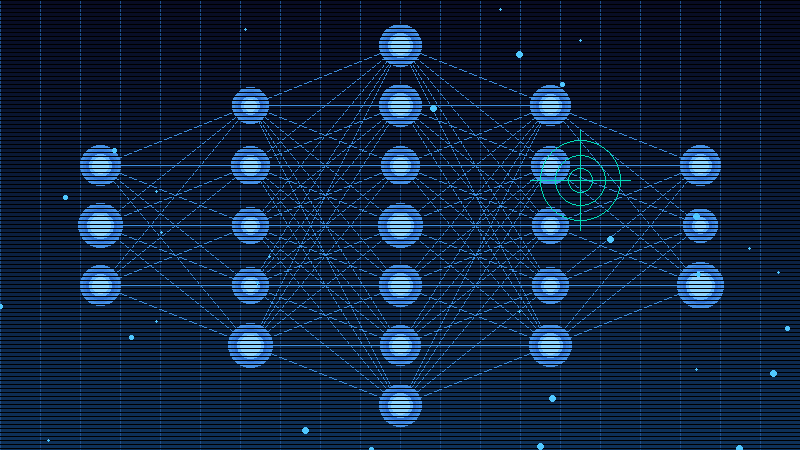
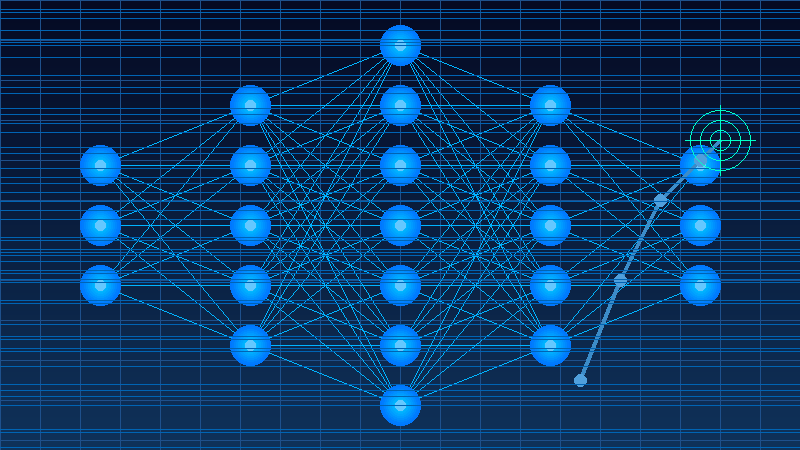
monday

diff --git a/index.html b/index.html
@@ -1428,29 +1428,29 @@ footer .container {
 
     <div class="news-grid">
       <!-- Curated industry articles — updated bi-weekly -->
-      <a href="https://www.nature.com/articles/s41746-025-02227-4" target="_blank" class="news-card">
-        <img src="news-article-1.png" alt="AI for surgical scene understanding" class="news-card-image">
+      <a href="https://www.science.org/doi/10.1126/scirobotics.adt0187" target="_blank" class="news-card">
+        <img src="news-article-1.png" alt="Autonomous AI surgical robots" class="news-card-image">
         <div class="news-card-body">
-          <div class="news-card-source">npj Digital Medicine &middot; 2026</div>
-          <div class="news-card-title">AI for Surgical Scene Understanding: A Systematic Review and Reporting Quality Meta-Analysis</div>
+          <div class="news-card-source">Science Robotics &middot; 2026</div>
+          <div class="news-card-title">Will Your Next Surgeon Be a Robot? Autonomy and AI in Robotic Surgery</div>
           <span class="news-card-link">Read Article &rarr;</span>
         </div>
       </a>
 
-      <a href="https://www.frontiersin.org/journals/molecular-medicine/articles/10.3389/fmmed.2025.1709095/full" target="_blank" class="news-card">
-        <img src="news-article-2.png" alt="AAV vector manufacturing for gene therapy" class="news-card-image">
+      <a href="https://www.nature.com/articles/s41591-025-04073-z" target="_blank" class="news-card">
+        <img src="news-article-2.png" alt="AAV gene therapy vector genome safety" class="news-card-image">
         <div class="news-card-body">
-          <div class="news-card-source">Frontiers in Molecular Medicine &middot; 2025</div>
-          <div class="news-card-title">Advancing AAV Vector Manufacturing: Challenges, Innovations, and Future Directions</div>
+          <div class="news-card-source">Nature Medicine &middot; 2026</div>
+          <div class="news-card-title">Contaminating Plasmid Sequences and Disrupted Vector Genomes After AAV Gene Therapy</div>
           <span class="news-card-link">Read Article &rarr;</span>
         </div>
       </a>
 
-      <a href="https://health.ucdavis.edu/news/headlines/first-ever-in-utero-stem-cell-therapy-for-fetal-spina-bifida-repair-is-safe-study-finds/2026/02" target="_blank" class="news-card">
-        <img src="news-article-3.png" alt="In-utero stem cell therapy for spina bifida" class="news-card-image">
+      <a href="https://www.cell.com/cell-stem-cell/abstract/S1934-5909(25)00080-3" target="_blank" class="news-card">
+        <img src="news-article-3.png" alt="Engineered heart tissue patches for cardiac repair" class="news-card-image">
         <div class="news-card-body">
-          <div class="news-card-source">The Lancet &middot; 2026</div>
-          <div class="news-card-title">First-Ever In-Utero Stem Cell Therapy for Fetal Spina Bifida Repair Is Safe, Study Finds</div>
+          <div class="news-card-source">Cell Stem Cell &middot; 2025</div>
+          <div class="news-card-title">Engineered Heart Tissue Patches: A Milestone in Cardiac Regenerative Medicine</div>
           <span class="news-card-link">Read Article &rarr;</span>
         </div>
       </a>
